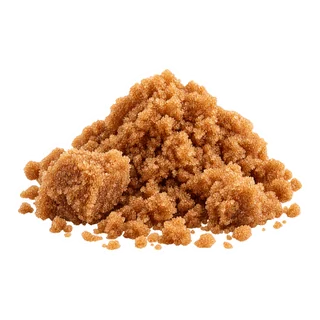
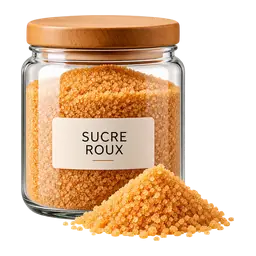
v670 — Harmonise Sucre, Sucre glace et Sucre roux en bocaux en verre
- Trois bocaux assortis, couvercles bois, étiquettes sobres et produits distincts.
- Trois WebP unitaires 256×256 transparents optimisés : 15 118, 16 506 et 16 300 octets.
- Conserve les noms, slugs, unités, catégories, catalogue et intégration Home Assistant.
- Incrémente les trois marqueurs de version et les références du cache en v670.
- Aucun changement aux mécanismes OAuth, WebSocket, chiffrement ou verrouillage.

diff --git a/sw.js b/sw.js
@@ -1,4 +1,4 @@
-const CACHE='courses-app-v669-r1';
+const CACHE='courses-app-v670-r1';
 const VISUAL_CACHE='courses-visuals-v2';
 const ERROR_INBOX_CACHE='courses-error-inbox-v1';
 const CORE_VISUALS=[
@@ -7,7 +7,7 @@ const CORE_VISUALS=[
   './www/empty-list-premium-v4.webp?v=305',
   './www/list-header-citrons-v552.webp'
 ];
-const SHELL=["./index.html","./marble-ivory-sage-v517.svg","./styles.css?v=659","./product-item-first-paint.css?v=610","./catalog.js?v=669","./preferences-service.js?v=398","./missing-requests-store.js?v=619","./courses-notifications.js?v=482","./bottom-nav-liquid.js?v=573","./app.js?v=659","./settings-tab-badge.js?v=410","./settings-ui.js?v=657","./error-center.js?v=630","./dishes.css?v=532","./catalog-liquid.css?v=496","./dish-detail.css?v=6","./catalog-liquid.js?v=635","./dishes-ui.js?v=653","./catalog-quantities.js?v=653","./repurchase-soon.js?v=664","./dish-local-images.js?v=669","./app-ui.js?v=653","./runtime-features.js?v=664","./missing-products-fixes.js?v=656","./missing-products-popup-ui.js?v=628","./product-item-images.js?v=610","./catalog-product-admin.js?v=661","./purchase-intelligence.js?v=664","./missing-products-dishes.js?v=654","./missing-products-modern.js?v=635","./dish-added-marker.js?v=653","./manifest.webmanifest?v=43","./icon-premium-v40.svg","./icon.svg","./apple-touch-icon.png","./docs/guide-fonctionnement-courses.pdf?v=299"];
+const SHELL=["./index.html","./marble-ivory-sage-v517.svg","./styles.css?v=659","./product-item-first-paint.css?v=610","./catalog.js?v=670","./preferences-service.js?v=398","./missing-requests-store.js?v=619","./courses-notifications.js?v=482","./bottom-nav-liquid.js?v=573","./app.js?v=659","./settings-tab-badge.js?v=410","./settings-ui.js?v=657","./error-center.js?v=630","./dishes.css?v=532","./catalog-liquid.css?v=496","./dish-detail.css?v=6","./catalog-liquid.js?v=635","./dishes-ui.js?v=653","./catalog-quantities.js?v=653","./repurchase-soon.js?v=664","./dish-local-images.js?v=670","./app-ui.js?v=653","./runtime-features.js?v=664","./missing-products-fixes.js?v=656","./missing-products-popup-ui.js?v=628","./product-item-images.js?v=610","./catalog-product-admin.js?v=661","./purchase-intelligence.js?v=664","./missing-products-dishes.js?v=654","./missing-products-modern.js?v=635","./dish-added-marker.js?v=653","./manifest.webmanifest?v=43","./icon-premium-v40.svg","./icon.svg","./apple-touch-icon.png","./docs/guide-fonctionnement-courses.pdf?v=299"];
 const refreshedVisuals=new Set();
 // Fichiers précachés de la version courante (adresses versionnées) : servis depuis le cache, sans attendre le réseau.
 const SHELL_SUFFIXES=SHELL.filter(src=>src!=='./index.html').map(src=>src.slice(1));

diff --git a/index.html b/index.html
@@ -63,7 +63,7 @@
         <div>
           <div class="page-title-row">
             <h1>Ma liste</h1>
-            <span class="page-version">v669</span>
+            <span class="page-version">v670</span>
           </div>
           <p>Votre liste de courses</p>
         </div>
@@ -86,7 +86,7 @@
         <div>
           <div class="page-title-row">
             <h1>Catalogue</h1>
-            <span class="page-version">v669</span>
+            <span class="page-version">v670</span>
           </div>
           <p>Ajouter vos produits</p>
         </div>
@@ -122,7 +122,7 @@
         <div>
           <div class="page-title-row">
             <h1>Réglages</h1>
-            <span class="page-version">v669</span>
+            <span class="page-version">v670</span>
           </div>
           <p id="settingsHeaderStatus" aria-live="polite">Personnalisez votre expérience</p>
         </div>
@@ -432,7 +432,7 @@
   </dialog>
 
   <div id="toast" class="toast" role="status"></div>
-  <script src="./catalog.js?v=669"></script>
+  <script src="./catalog.js?v=670"></script>
   <script src="./product-item-images.js?v=610" data-product-item-images="1"></script>
   <script src="./preferences-service.js?v=398"></script>
   <script src="./missing-requests-store.js?v=619"></script>

diff --git a/catalog.js b/catalog.js
@@ -84,7 +84,7 @@
   const loadDishLocalImages=()=>{
     if(document.querySelector('script[data-dish-local-images]')){onDishLocalImagesReady();return}
     const images=document.createElement('script');
-    images.src='./dish-local-images.js?v=669';
+    images.src='./dish-local-images.js?v=670';
     images.async=false;
     images.dataset.dishLocalImages='script';
     images.addEventListener('load',onDishLocalImagesReady,{once:true});

diff --git a/dish-local-images.js b/dish-local-images.js
@@ -1,7 +1,7 @@
 (() => {
 'use strict';
 
-const APP_VERSION='v669';
+const APP_VERSION='v670';
 window.COURSES_APP_VERSION=APP_VERSION;
 
 const SPECIAL_SLUGS=Object.freeze({
